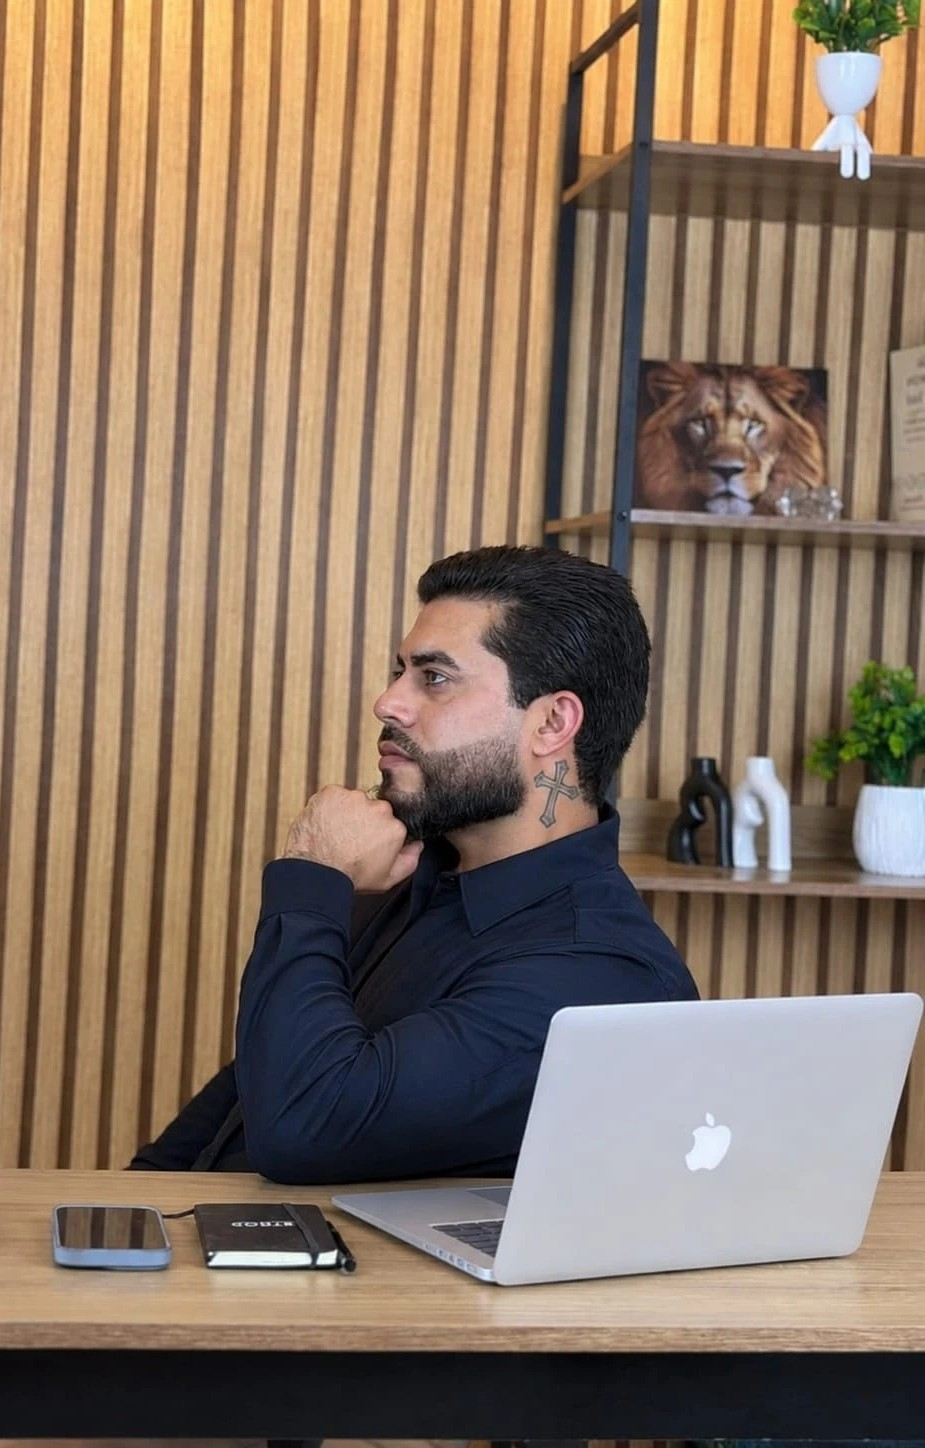
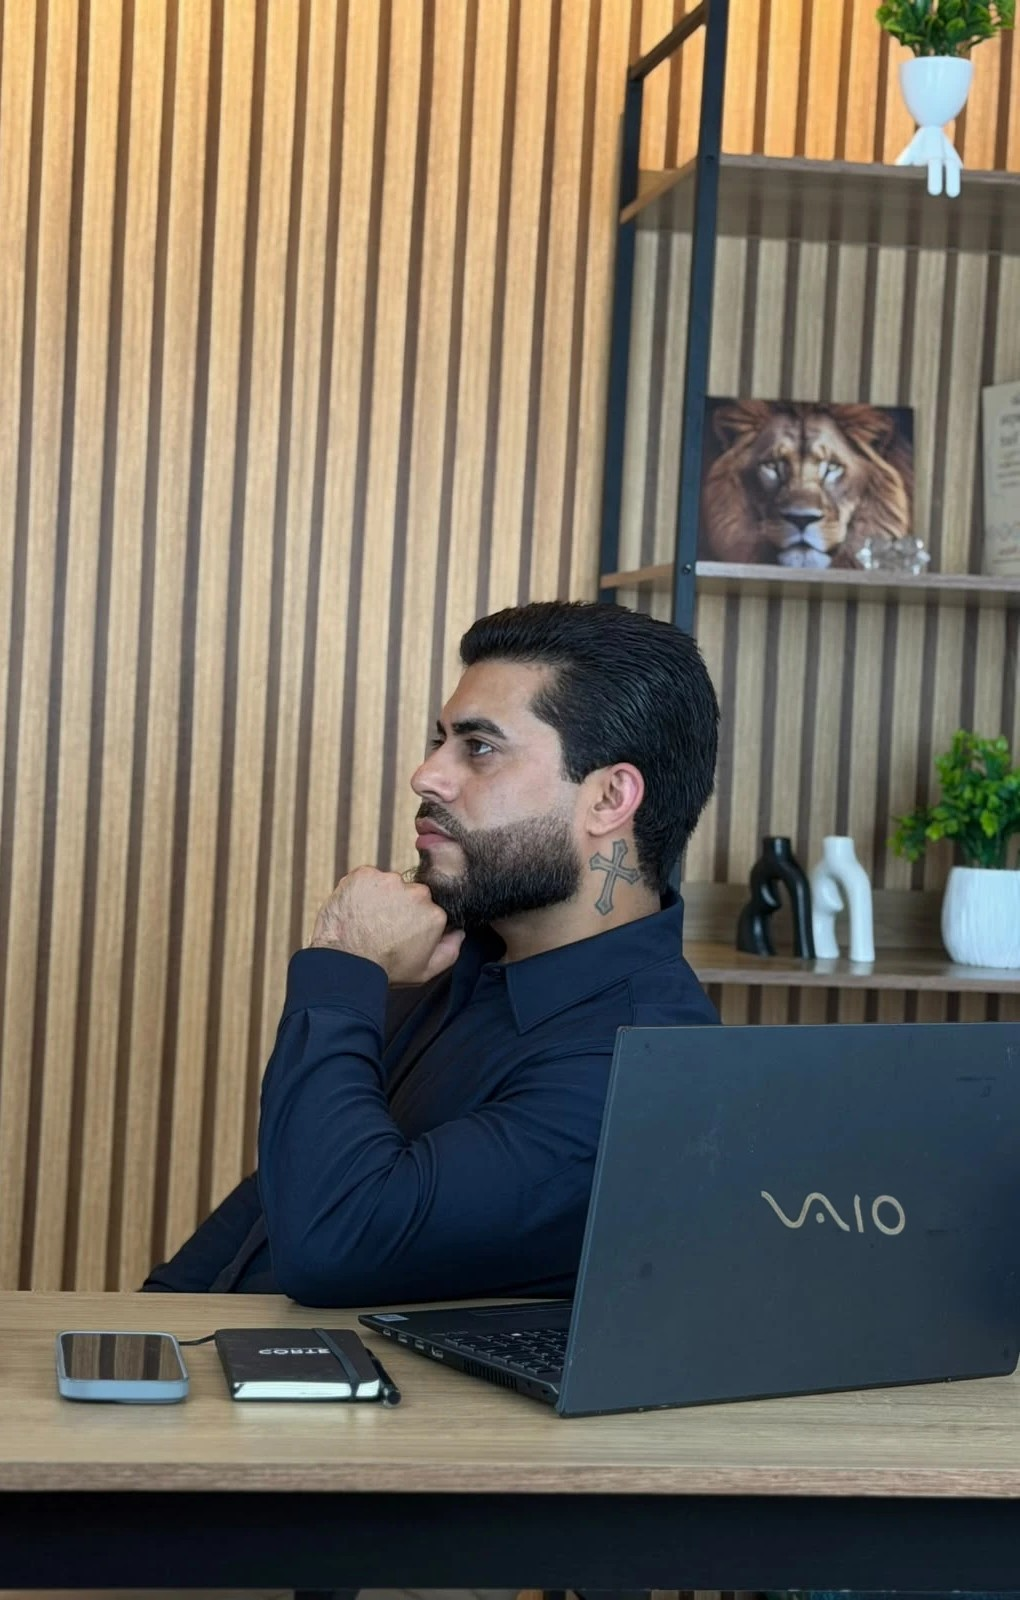
v2: fechamento (07) com a foto do Walter e o notebook VAIO
Mesma composição (espelhada, Walter à direita olhando para a esquerda,
sem a caneca); o logo VAIO foi desvirado para continuar legível.

Claude-Session: https://claude.ai/code/session_01AdnJkWPsN3ttTzvmScEryo

diff --git a/v2/consultoria.html b/v2/consultoria.html
@@ -353,7 +353,7 @@
 <!-- =============================================================== CIERRE -->
 <section class="fin deep" id="reservar" aria-labelledby="fin-t">
   <div class="fin__ph" data-view aria-hidden="true">
-    <img src="../assets/img/walter-mesa.jpg" alt="" width="925" height="1448" loading="lazy" data-focus="off">
+    <img src="../assets/img/walter-mesa.jpg" alt="" width="1020" height="1600" loading="lazy" data-focus="off">
   </div>
   <div class="wrap fin__grid">
     <div class="fin__txt">
